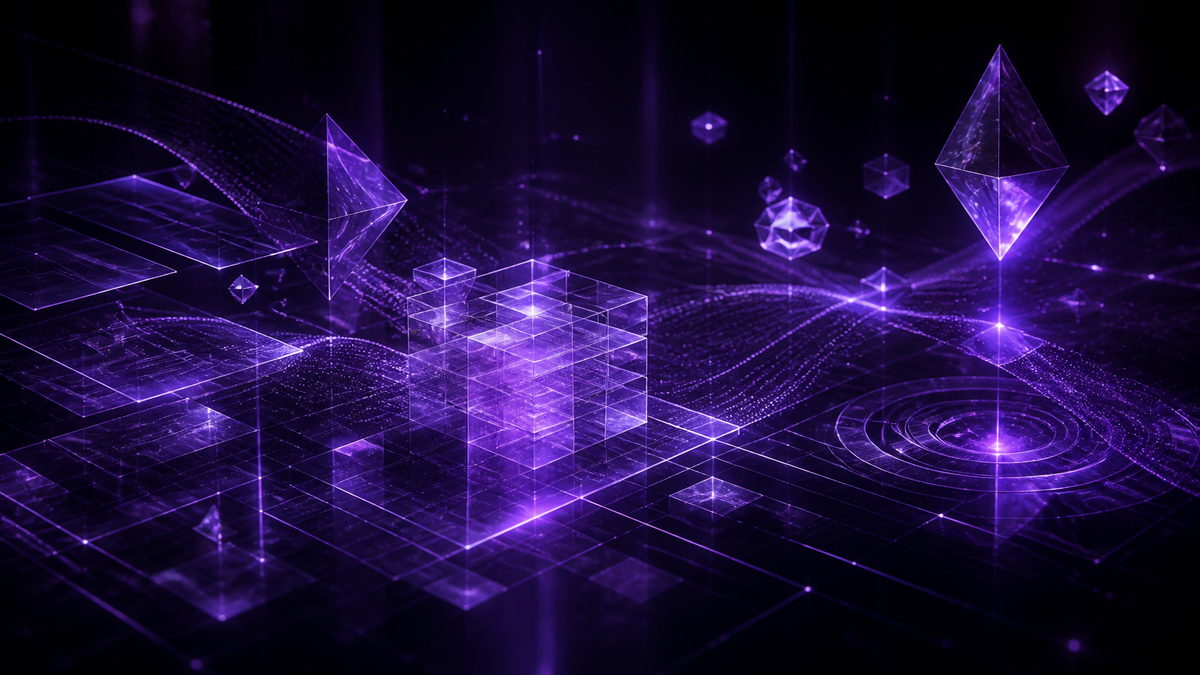
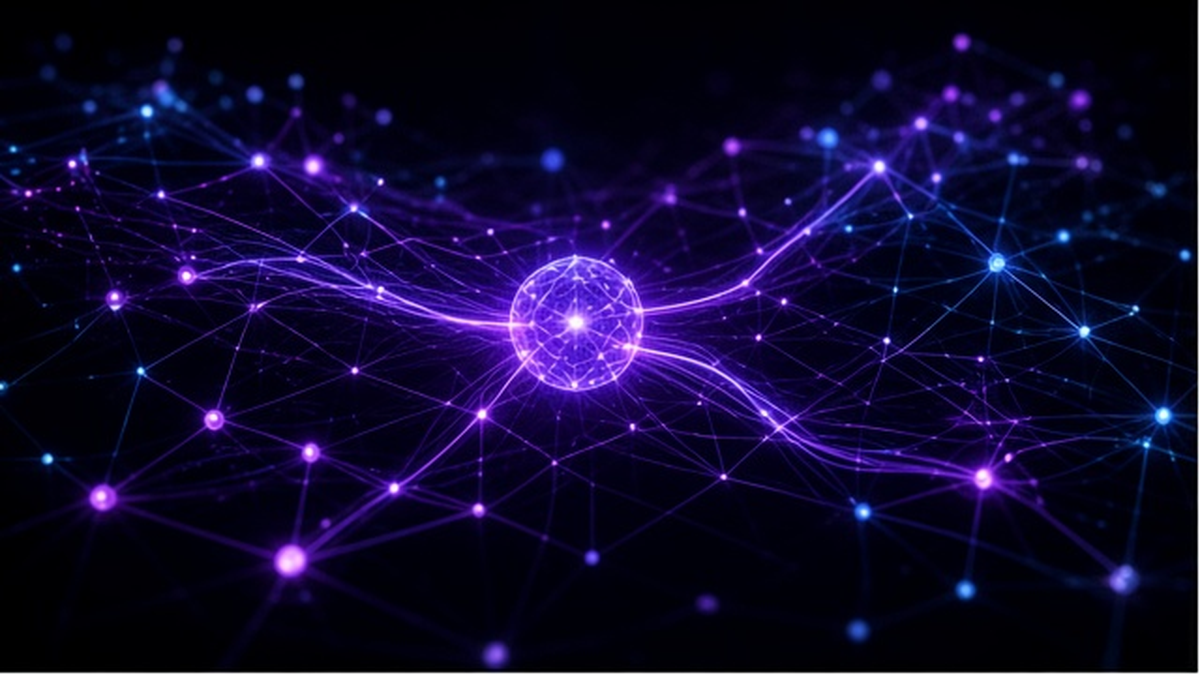
B92 cover: quad canvas GenerateImage fallback + split/inject
ONE 2x2 KODA gradient_abstract canvas (gpt-image-2 MCP unavailable),
split to cover + 3 inline, inject figures after H2.

diff --git a/memory/blog/articles/B92-mcp-google-sheets-cursor-reestry/article.html b/memory/blog/articles/B92-mcp-google-sheets-cursor-reestry/article.html
@@ -5,6 +5,10 @@
 <p>Три маршрута на сентябрь 2026. Path B (рекомендую финотделу): mcp-gsheets на service account – расшарили только рабочий файл, ключ в env. Path A: OAuth-плагин из Marketplace, если Sheets в витрине. Path C: официальный remote MCP Google (Developer Preview) – для эксперимента, не как единственный production без human-in-the-loop. Changelog Cursor от 03.08.2026 детально описывает Drive, Gmail и Calendar; Sheets там не расписан. Обзор MCP – в <a href="/blog/mcp-cursor-finansist-instrumenty/">гайде по MCP в Cursor</a>; запись скриптом с тем же SA – в <a href="/blog/google-sheets-api-integraciya-finotdel/">интеграции Sheets API</a>.</p>
 
 <h2 id="when-needed">Оцените, когда MCP Sheets нужен финотделу (и когда нет)</h2>
+<figure class="inline-quad" data-slot="inline_1">
+  <img src="cover/inline-01.png" alt="Сравнение маршрутов Path A/B/C для MCP Google Sheets в финотделе" loading="lazy">
+</figure>
+
 
 <p><b>Подключайте MCP,</b> если реестр уже в Google Таблицах (договоры, УПД, SaaS, заявки на расход), правки повторяются каждую неделю, а копипаст в чат бесит. Типичный симптом: CFO просит сменить статус по doc_key, а вы выделяете 40 строк и боитесь сдвинуть формулы. <b>Не делайте</b> Sheets единственным источником правды при жестком audit trail, сотнях таблиц с enterprise ACL или более 200–300 активных договоров – тогда CLM или 1С, таблица остается staging-слоем.</p>
 
@@ -47,6 +51,10 @@
 <p><b>Сделайте:</b> DoD до установки – найти строку по doc_key, сменить status/comment, перечитать. <b>Не делайте:</b> MCP "на весь Drive" ради одного реестра.</p>
 
 <h2 id="prep-security">Подготовьте реестр и безопасность (без сырых ПДн в облако)</h2>
+<figure class="inline-quad" data-slot="inline_2">
+  <img src="cover/inline-02.png" alt="Схема подготовки реестра и безопасности без сырых ПДн" loading="lazy">
+</figure>
+
 
 <p>Одна строка = одна сущность. Колонка <b>doc_key</b> – стабильный код вроде DOG-2026-014; по нему агент ищет строку. Лист <b>staging</b> – для импортов из 1С или Forms; боевой лист "Реестр" агент правит точечно в status и comment.</p>
 
@@ -61,6 +69,10 @@
 <p><b>Сделайте:</b> отдельный SA, share одного файла "Редактор", без "Уведомить". <b>Не делайте:</b> боевые ПДн в тестовый реестр и Auto-run всех write-tools.</p>
 
 <h2 id="setup">Настройте Path B: Google Cloud, SA и mcp.json пошагово</h2>
+<figure class="inline-quad" data-slot="inline_3">
+  <img src="cover/inline-03.png" alt="Пошаговая схема Path B: Google Cloud, service account и mcp.json" loading="lazy">
+</figure>
+
 
 <p>Сервер mcp-gsheets (freema) требует Node.js v20+, Google Sheets API и JSON SA. Конфиг: проектный <b>.cursor/mcp.json</b> или глобальный <b>~/.cursor/mcp.json</b>; при совпадении имени побеждает проектный. Это как сейф в офисе: доступ только к расшаренным реестрам.</p>
 
